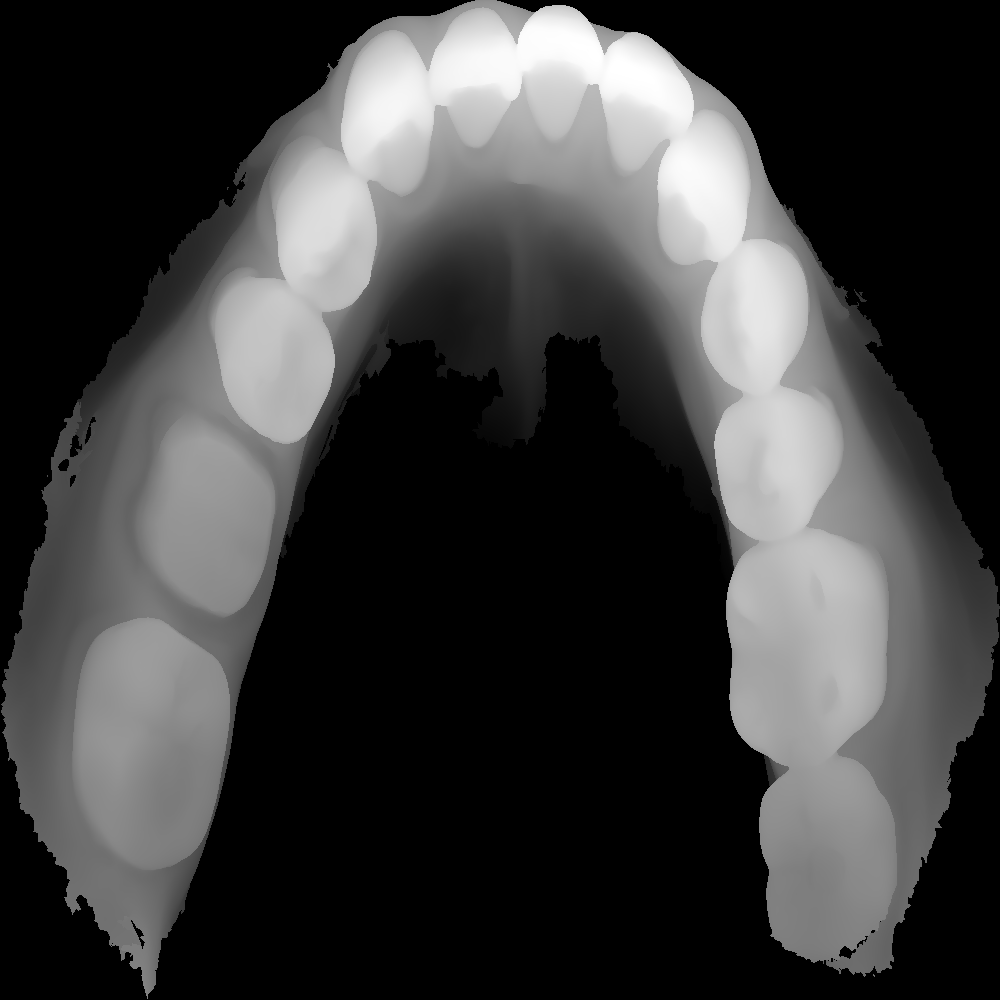
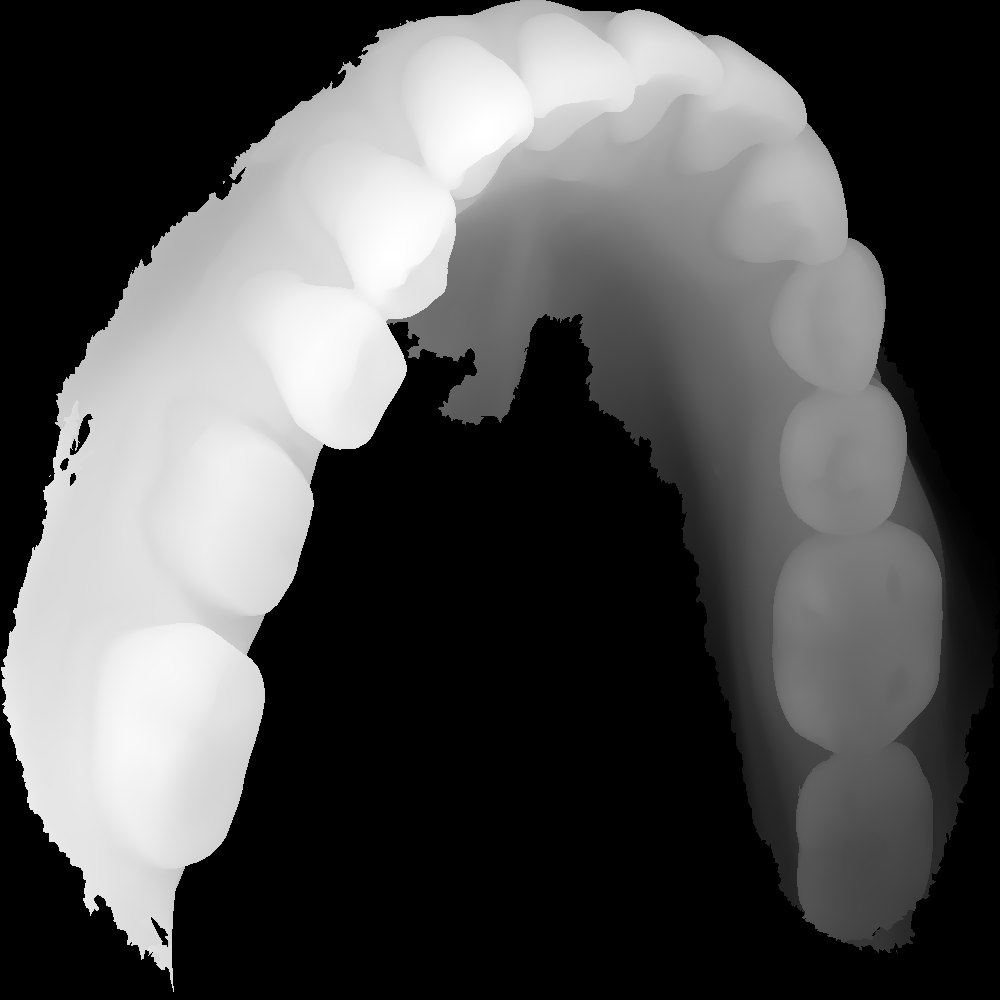
Add select Insert Angle func.TODO:Need to render something like axises and picture.

diff --git a/src/main program/main.cpp b/src/main program/main.cpp
@@ -16,7 +16,7 @@ void MouseMove(vtkObject* caller, long unsigned int eventId, void* clientData, v
 	
 }
 
-void writePNG(SurfaceMesh& sm,double3 dir)
+void writePNG(SurfaceMesh sm,double3 dir)
 {
 	dir = -dir;
 	dir.normalize();
@@ -24,11 +24,16 @@ void writePNG(SurfaceMesh& sm,double3 dir)
 	double3 axis = double3::crossProduct(dir,y);
 	axis.normalize();
 	axis = axis * acos(double3::dotProduct(dir, y));
+	double3 center(0, 0, 0);
+	for (auto v : sm.vertices())
+		center = center + double3(sm.point(v).x(), sm.point(v).y(), sm.point(v).z());
+	center = center / sm.number_of_vertices();
 	for (auto v : sm.vertices())
 	{
 		double3 pt(sm.point(v).x(), sm.point(v).y(), sm.point(v).z());
-		
+		pt = pt - center;
 		AngleAxisRotatePoint(axis.data, pt.data, pt.data);
+		sm.point(v) = Point_3(pt[0] , pt[1] , pt[2] );
 	}
 	
 	Tree tree(faces(sm).first, faces(sm).second, sm);
